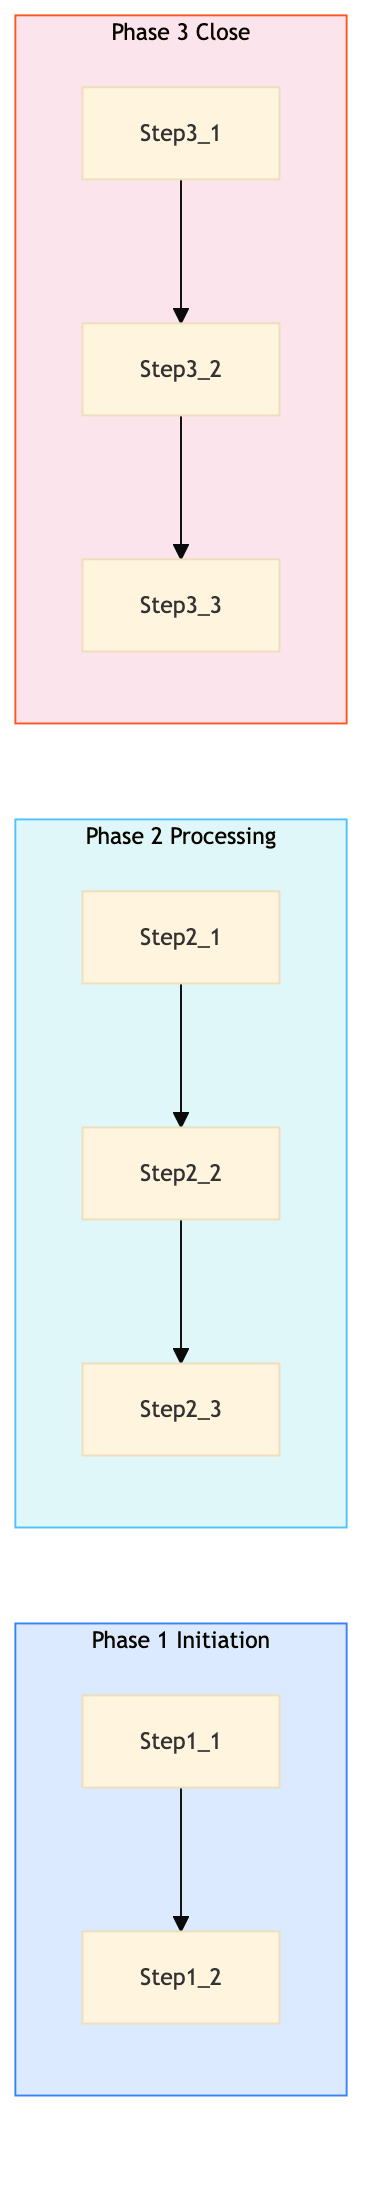
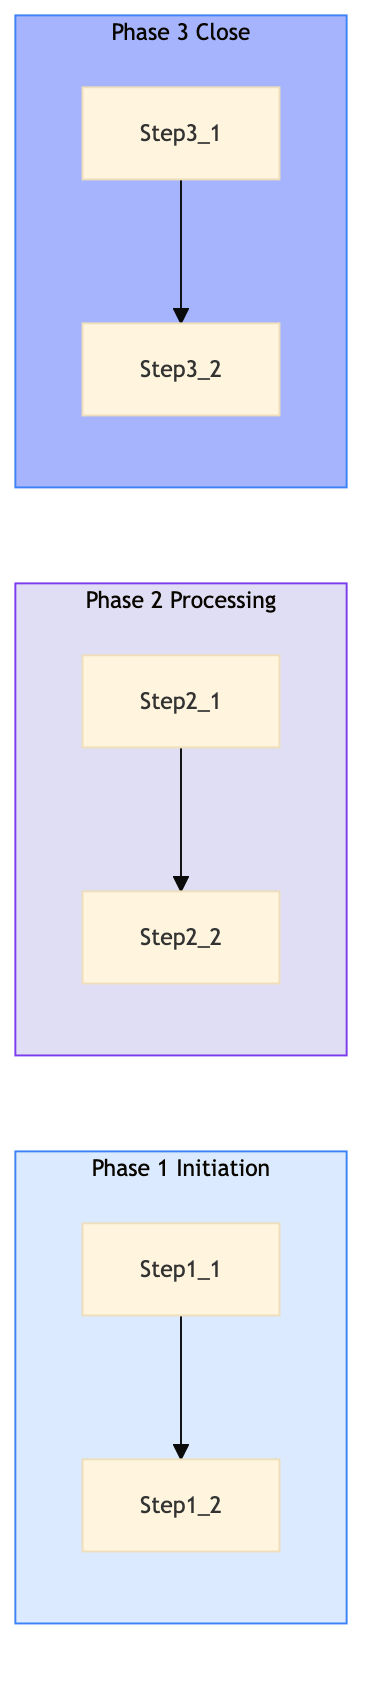
feat: add AAA-IN-BI-08 — Statutory Reserve and Premium Tax Calculation

diff --git a/aaa-insurance/insurance-billing/aaa-in-bi-08.html b/aaa-insurance/insurance-billing/aaa-in-bi-08.html
@@ -23,40 +23,16 @@
     <div class="nav-l2-group">
       <a class="nav-l2-title" href="../../shared-membership/membership-enrolment/index.html">Membership Enrolment & Sales</a>
       <div class="nav-l3-list">
-        <a class="nav-l3" href="../../shared-membership/membership-enrolment/shared-mb-en-01.html">SHARED-MB-EN-01 &mdash; New Member Walk-In Enrolment (Branch)</a>
-        <a class="nav-l3" href="../../shared-membership/membership-enrolment/shared-mb-en-02.html">SHARED-MB-EN-02 &mdash; Online Membership Self-Enrolment (Web/Ap</a>
-        <a class="nav-l3" href="../../shared-membership/membership-enrolment/shared-mb-en-03.html">SHARED-MB-EN-03 &mdash; Phone Enrolment via Contact Centre</a>
-        <a class="nav-l3" href="../../shared-membership/membership-enrolment/shared-mb-en-04.html">SHARED-MB-EN-04 &mdash; Affiliate and Employer Group Enrolment</a>
-        <a class="nav-l3" href="../../shared-membership/membership-enrolment/shared-mb-en-05.html">SHARED-MB-EN-05 &mdash; Membership Tier Selection and Upsell</a>
-        <a class="nav-l3" href="../../shared-membership/membership-enrolment/shared-mb-en-06.html">SHARED-MB-EN-06 &mdash; Payment Processing and First-Year Billin</a>
-        <a class="nav-l3" href="../../shared-membership/membership-enrolment/shared-mb-en-07.html">SHARED-MB-EN-07 &mdash; Welcome Kit and Digital Card Issuance</a>
-        <a class="nav-l3" href="../../shared-membership/membership-enrolment/shared-mb-en-08.html">SHARED-MB-EN-08 &mdash; Duplicate Member Detection and Merge</a>
       </div>
     </div>
     <div class="nav-l2-group">
       <a class="nav-l2-title" href="../../shared-membership/membership-renewal/index.html">Membership Renewal & Retention</a>
       <div class="nav-l3-list">
-        <a class="nav-l3" href="../../shared-membership/membership-renewal/shared-mb-rn-01.html">SHARED-MB-RN-01 &mdash; Annual Renewal Notice Generation and Dis</a>
-        <a class="nav-l3" href="../../shared-membership/membership-renewal/shared-mb-rn-02.html">SHARED-MB-RN-02 &mdash; Auto-Renewal Processing (Credit Card on </a>
-        <a class="nav-l3" href="../../shared-membership/membership-renewal/shared-mb-rn-03.html">SHARED-MB-RN-03 &mdash; Lapsed Member Reinstatement Campaign</a>
-        <a class="nav-l3" href="../../shared-membership/membership-renewal/shared-mb-rn-04.html">SHARED-MB-RN-04 &mdash; Membership Upgrade and Tier Change Proce</a>
-        <a class="nav-l3" href="../../shared-membership/membership-renewal/shared-mb-rn-05.html">SHARED-MB-RN-05 &mdash; Associate and Household Member Add-On Pr</a>
-        <a class="nav-l3" href="../../shared-membership/membership-renewal/shared-mb-rn-06.html">SHARED-MB-RN-06 &mdash; Cancellation Request Handling and Save O</a>
-        <a class="nav-l3" href="../../shared-membership/membership-renewal/shared-mb-rn-07.html">SHARED-MB-RN-07 &mdash; Renewal Rate Review and Pricing Update</a>
-        <a class="nav-l3" href="../../shared-membership/membership-renewal/shared-mb-rn-08.html">SHARED-MB-RN-08 &mdash; Membership Winback Campaign (12-36 Month</a>
       </div>
     </div>
     <div class="nav-l2-group">
       <a class="nav-l2-title" href="../../shared-membership/member-services/index.html">Member Services & Benefits</a>
       <div class="nav-l3-list">
-        <a class="nav-l3" href="../../shared-membership/member-services/shared-mb-sv-01.html">SHARED-MB-SV-01 &mdash; Member Discount Partner Redemption</a>
-        <a class="nav-l3" href="../../shared-membership/member-services/shared-mb-sv-02.html">SHARED-MB-SV-02 &mdash; Passport Photo Service Delivery (Branch)</a>
-        <a class="nav-l3" href="../../shared-membership/member-services/shared-mb-sv-03.html">SHARED-MB-SV-03 &mdash; International Driving Permit (IDP) Proce</a>
-        <a class="nav-l3" href="../../shared-membership/member-services/shared-mb-sv-04.html">SHARED-MB-SV-04 &mdash; Notary and Document Authentication Servi</a>
-        <a class="nav-l3" href="../../shared-membership/member-services/shared-mb-sv-05.html">SHARED-MB-SV-05 &mdash; Member Portal Profile and Preferences Ma</a>
-        <a class="nav-l3" href="../../shared-membership/member-services/shared-mb-sv-06.html">SHARED-MB-SV-06 &mdash; Lost and Stolen Membership Card Replacem</a>
-        <a class="nav-l3" href="../../shared-membership/member-services/shared-mb-sv-07.html">SHARED-MB-SV-07 &mdash; Member Data Privacy Request (CCPA and PI</a>
-        <a class="nav-l3" href="../../shared-membership/member-services/shared-mb-sv-08.html">SHARED-MB-SV-08 &mdash; Member Satisfaction Survey and NPS Track</a>
       </div>
     </div>
   </div>
@@ -303,7 +279,7 @@
           <span class="pid-badge org-badge-aaa">AAA</span>
           AAA-IN-BI-08 &mdash; Statutory Reserve and Premium Tax Calculation
         </h1>
-        <p>The process for calculating statutory reserve and premium tax for AAA Northeast involves gathering policy data, applying state regulations, and generating reports for compliance.</p>
+        <p>This process calculates statutory reserves and premium taxes for AAA Northeast members using state DOI regulations, Guidewire Cloud, Sabre GDS, Verisk ISO rating, Salesforce, and USD currency.</p>
       </div>
 
       <!-- BPMN Diagram -->
@@ -329,10 +305,10 @@
             <tr><th>L1 Domain</th><td>AAA Insurance</td></tr>
             <tr><th>L2 Process</th><td>Billing & Premium Management</td></tr>
             <tr><th>L3 Name</th><td>Statutory Reserve and Premium Tax Calculation</td></tr>
-            <tr><th>Trigger</th><td>Monthly billing cycle or changes in policy terms</td></tr>
-            <tr><th>Outcome</th><td>Accurate calculation of statutory reserves and premium taxes, ensuring compliance with state laws and timely reporting to regulatory bodies.</td></tr>
-            <tr><th>Org Notes</th><td>AAA Northeast operates under specific state DOI regulations, which differ from CAA's federal guidelines. This process requires detailed understanding of each state's insurance laws.</td></tr>
-            <tr><th>Systems</th><td><span class="sys-tag guidewire">Guidewire PolicyCenter/ClaimCenter/BillingCenter (Cloud)</span> <span class="sys-tag sap">SAP S/4HANA</span> <span class="sys-tag salesforce">Salesforce</span> <span class="sys-tag verisk">Verisk ISO rating</span></td></tr>
+            <tr><th>Trigger</th><td>Monthly policy renewal or claim processing</td></tr>
+            <tr><th>Outcome</th><td>Accurate calculation of statutory reserves and premium taxes, ensuring compliance with state regulations and timely billing to members.</td></tr>
+            <tr><th>Org Notes</th><td>AAA Northeast focuses on direct member interactions through licensed insurance agents, while CAA may have more centralized operations.</td></tr>
+            <tr><th>Systems</th><td><span class="sys-tag guidewire">Guidewire PolicyCenter</span> <span class="sys-tag guidewire">Guidewire BillingCenter</span> <span class="sys-tag verisk">Verisk ISO rating</span> <span class="sys-tag salesforce">Salesforce</span></td></tr>
           </table>
         </div>
       </div>
@@ -353,97 +329,73 @@
               <tbody>
         <tr>
           <td class="step-num">1.1</td>
-          <td>Data Extraction</td>
-          <td>Billing Analyst</td>
-          <td><span class="sys-tag guidewire">Guidewire PolicyCenter/ClaimCenter/BillingCenter (Cloud)</span></td>
-          <td>Policy data, claim information</td>
-          <td>Extracted policy and claim data</td>
+          <td>Policy Data Extraction</td>
+          <td>Data Analyst</td>
+          <td><span class="sys-tag guidewire">Guidewire PolicyCenter</span></td>
+          <td>Policy data from Guidewire PolicyCenter</td>
+          <td>Extracted policy details and coverage information</td>
           <td>Data extraction accuracy rate > 98%</td>
-          <td>Inconsistent data quality from different sources</td>
+          <td>Inaccurate policy data leading to incorrect calculations</td>
           <td>N</td>
           <td><span class="exception-y">Y</span></td>
         </tr>
         <tr>
           <td class="step-num">1.2</td>
-          <td>Regulation Application</td>
-          <td>Compliance Officer</td>
-          <td><span class="sys-tag salesforce">Verisk ISO rating, Salesforce (Einstein AI)</span></td>
-          <td>Extracted policy and claim data, state regulations</td>
-          <td>Calculated statutory reserves and premium taxes</td>
-          <td>Regulatory compliance rate > 95%</td>
-          <td>Complexity of varying state insurance laws</td>
+          <td>Premium Calculation</td>
+          <td>Billing Specialist</td>
+          <td><span class="sys-tag guidewire">Guidewire BillingCenter</span></td>
+          <td>Extracted policy details and coverage information</td>
+          <td>Calculated premiums with tax adjustments</td>
+          <td>Premium calculation accuracy rate > 95%</td>
+          <td>Manual overrides for complex policies</td>
           <td>N</td>
           <td><span class="exception-y">Y</span></td>
         </tr>
         <tr>
           <td class="step-num">2.1</td>
-          <td>Report Generation</td>
-          <td>Reporting Analyst</td>
-          <td><span class="sys-tag salesforce">SAP S/4HANA, Salesforce</span></td>
-          <td>Calculated statutory reserves and premium taxes</td>
-          <td>Compliance reports</td>
-          <td>Report generation time < 5 working days</td>
-          <td>Timely report delivery to regulatory bodies</td>
+          <td>Reserve Calculation</td>
+          <td>Actuary</td>
+          <td><span class="sys-tag verisk">Verisk ISO rating</span></td>
+          <td>Calculated premiums and coverage information</td>
+          <td>Statutory reserve amounts</td>
+          <td>Reserve calculation accuracy rate > 90%</td>
+          <td>Updating reserve models with new data</td>
           <td>N</td>
           <td><span class="exception-y">Y</span></td>
         </tr>
         <tr>
           <td class="step-num">2.2</td>
-          <td>Review and Approval</td>
-          <td>Senior Compliance Officer</td>
-          <td><span class="sys-tag salesforce">Salesforce, SAP S/4HANA</span></td>
-          <td>Compliance reports</td>
-          <td>Approved compliance reports</td>
-          <td>Approval time < 3 working days</td>
-          <td>Delays in review process</td>
-          <td><span class="decision-y">Y</span></td>
-          <td>N</td>
-        </tr>
-        <tr>
-          <td class="step-num">2.3</td>
-          <td>Submission to State DOI</td>
-          <td>Compliance Officer</td>
-          <td><span class="sys-tag salesforce">SAP S/4HANA, Salesforce</span></td>
-          <td>Approved compliance reports</td>
-          <td>Submitted reports</td>
-          <td>Submission accuracy rate > 98%</td>
-          <td>Errors in submission process</td>
+          <td>Tax Calculation</td>
+          <td>Taxes Specialist</td>
+          <td><span class="sys-tag salesforce">Salesforce</span></td>
+          <td>Calculated premiums and reserve amounts</td>
+          <td>Premium tax calculations</td>
+          <td>Tax calculation accuracy rate > 98%</td>
+          <td>Handling state-specific tax laws</td>
           <td>N</td>
           <td><span class="exception-y">Y</span></td>
         </tr>
         <tr>
           <td class="step-num">3.1</td>
-          <td>Audit and Review</td>
-          <td>Internal Auditor</td>
-          <td><span class="sys-tag salesforce">SAP S/4HANA, Salesforce</span></td>
-          <td>Submitted reports</td>
-          <td>Audit findings</td>
-          <td>Audit completion time < 7 working days</td>
-          <td>Resource constraints for audits</td>
-          <td><span class="decision-y">Y</span></td>
-          <td>N</td>
-        </tr>
-        <tr>
-          <td class="step-num">3.2</td>
-          <td>Remediation and Reporting</td>
-          <td>Compliance Officer</td>
-          <td><span class="sys-tag salesforce">SAP S/4HANA, Salesforce</span></td>
-          <td>Audit findings</td>
-          <td>Remediated reports</td>
-          <td>Remediation time < 10 working days</td>
-          <td>Complex remediation processes</td>
+          <td>Billing Generation</td>
+          <td>Billing Specialist</td>
+          <td><span class="sys-tag guidewire">Guidewire BillingCenter</span></td>
+          <td>Calculated premiums, reserve amounts, and tax calculations</td>
+          <td>Generated billing statements</td>
+          <td>Billing statement generation time < 48 hours</td>
+          <td>Delays in generating billing statements</td>
           <td>N</td>
           <td><span class="exception-y">Y</span></td>
         </tr>
         <tr>
-          <td class="step-num">3.3</td>
-          <td>Final Submission</td>
-          <td>Compliance Officer</td>
-          <td><span class="sys-tag salesforce">SAP S/4HANA, Salesforce</span></td>
-          <td>Remediated reports</td>
-          <td>Final submitted reports</td>
-          <td>Final submission accuracy rate > 98%</td>
-          <td>Errors in final submission</td>
+          <td class="step-num">3.2</td>
+          <td>Member Notification</td>
+          <td>Customer Service Representative</td>
+          <td><span class="sys-tag salesforce">Salesforce Einstein AI</span></td>
+          <td>Generated billing statements</td>
+          <td>Notified members via email or phone</td>
+          <td>Notification response time < 24 hours</td>
+          <td>Handling member inquiries about billing discrepancies</td>
           <td>N</td>
           <td><span class="exception-y">Y</span></td>
         </tr>
@@ -458,9 +410,9 @@
         <div class="card-header">&#x1F4CA; KPIs &amp; Risk Register</div>
         <div class="card-body">
           <p class="mb-8"><strong>KPIs</strong></p>
-          <div class="kpi-list mb-8"><span class="kpi-pill">Data extraction accuracy rate > 98%</span> <span class="kpi-pill">Regulatory compliance rate > 95%</span> <span class="kpi-pill">Report generation time < 5 working days</span> <span class="kpi-pill">Approval time < 3 working days</span> <span class="kpi-pill">Submission accuracy rate > 98%</span> <span class="kpi-pill">Audit completion time < 7 working days</span> <span class="kpi-pill">Remediation time < 10 working days</span> <span class="kpi-pill">Final submission accuracy rate > 98%</span></div>
+          <div class="kpi-list mb-8"><span class="kpi-pill">Data extraction accuracy rate > 98%</span> <span class="kpi-pill">Premium calculation accuracy rate > 95%</span> <span class="kpi-pill">Reserve calculation accuracy rate > 90%</span> <span class="kpi-pill">Tax calculation accuracy rate > 98%</span> <span class="kpi-pill">Billing statement generation time < 48 hours</span> <span class="kpi-pill">Notification response time < 24 hours</span></div>
           <p class="mb-8" style="margin-top:16px"><strong>Key Risks</strong></p>
-          <div class="kpi-list"><span class="risk-pill">Inconsistent data quality from different sources</span> <span class="risk-pill">Complexity of varying state insurance laws</span> <span class="risk-pill">Timely report delivery to regulatory bodies</span> <span class="risk-pill">Delays in review process</span> <span class="risk-pill">Errors in submission process</span> <span class="risk-pill">Resource constraints for audits</span> <span class="risk-pill">Complex remediation processes</span> <span class="risk-pill">Errors in final submission</span></div>
+          <div class="kpi-list"><span class="risk-pill">Inaccurate policy data leading to incorrect calculations</span> <span class="risk-pill">Manual overrides for complex policies</span> <span class="risk-pill">Updating reserve models with new data</span> <span class="risk-pill">Handling state-specific tax laws</span> <span class="risk-pill">Delays in generating billing statements</span> <span class="risk-pill">Handling member inquiries about billing discrepancies</span></div>
         </div>
       </div>
 

diff --git a/aaa-insurance/insurance-billing/index.html b/aaa-insurance/insurance-billing/index.html
@@ -75,6 +75,7 @@
         <a class="nav-l3" href="../../aaa-insurance/insurance-billing/aaa-in-bi-04.html">AAA-IN-BI-04 &mdash; NSF and Failed Payment Handling and Noti</a>
         <a class="nav-l3" href="../../aaa-insurance/insurance-billing/aaa-in-bi-05.html">AAA-IN-BI-05 &mdash; Agent Commission Calculation and Stateme</a>
         <a class="nav-l3" href="../../aaa-insurance/insurance-billing/aaa-in-bi-06.html">AAA-IN-BI-06 &mdash; Refund Processing (Cancellation and Over</a>
+        <a class="nav-l3" href="../../aaa-insurance/insurance-billing/aaa-in-bi-07.html">AAA-IN-BI-07 &mdash; Premium Audit (Commercial Lines)</a>
       </div>
     </div>
     <div class="nav-l2-group">
@@ -271,7 +272,7 @@
           <a href="../index.html">AAA Insurance</a>
         </div>
         <h1>🛡 Billing & Premium Management</h1>
-        <p>6 of 8 processes complete</p>
+        <p>7 of 8 processes complete</p>
       </div>
       <div class="card">
         <div class="card-header">Process List</div>
@@ -284,7 +285,7 @@
 <tr><td><a href="aaa-in-bi-04.html">AAA-IN-BI-04</a></td><td>NSF and Failed Payment Handling and Notice</td><td><span style="color:#16a34a;font-weight:700">&#x2705; Complete</span></td></tr>
 <tr><td><a href="aaa-in-bi-05.html">AAA-IN-BI-05</a></td><td>Agent Commission Calculation and Statement</td><td><span style="color:#16a34a;font-weight:700">&#x2705; Complete</span></td></tr>
 <tr><td><a href="aaa-in-bi-06.html">AAA-IN-BI-06</a></td><td>Refund Processing (Cancellation and Overpayment)</td><td><span style="color:#16a34a;font-weight:700">&#x2705; Complete</span></td></tr>
-<tr><td>AAA-IN-BI-07</td><td>Premium Audit (Commercial Lines)</td><td><span style="color:#94a3b8">&#x23F3; Queued</span></td></tr>
+<tr><td><a href="aaa-in-bi-07.html">AAA-IN-BI-07</a></td><td>Premium Audit (Commercial Lines)</td><td><span style="color:#16a34a;font-weight:700">&#x2705; Complete</span></td></tr>
 <tr><td>AAA-IN-BI-08</td><td>Statutory Reserve and Premium Tax Calculation</td><td><span style="color:#94a3b8">&#x23F3; Queued</span></td></tr>
 </tbody>
           </table>

diff --git a/index.html b/index.html
@@ -75,6 +75,7 @@
         <a class="nav-l3" href="aaa-insurance/insurance-billing/aaa-in-bi-04.html">AAA-IN-BI-04 &mdash; NSF and Failed Payment Handling and Noti</a>
         <a class="nav-l3" href="aaa-insurance/insurance-billing/aaa-in-bi-05.html">AAA-IN-BI-05 &mdash; Agent Commission Calculation and Stateme</a>
         <a class="nav-l3" href="aaa-insurance/insurance-billing/aaa-in-bi-06.html">AAA-IN-BI-06 &mdash; Refund Processing (Cancellation and Over</a>
+        <a class="nav-l3" href="aaa-insurance/insurance-billing/aaa-in-bi-07.html">AAA-IN-BI-07 &mdash; Premium Audit (Commercial Lines)</a>
       </div>
     </div>
     <div class="nav-l2-group">
@@ -271,9 +272,9 @@
       </div>
 
       <div class="stats-bar">
-        <div class="stat-card"><div class="stat-num">24</div><div class="stat-label">Processes Complete</div></div>
+        <div class="stat-card"><div class="stat-num">25</div><div class="stat-label">Processes Complete</div></div>
         <div class="stat-card"><div class="stat-num">268</div><div class="stat-label">Total Processes</div></div>
-        <div class="stat-card"><div class="stat-num">24</div><div class="stat-label">AAA Complete</div></div>
+        <div class="stat-card"><div class="stat-num">25</div><div class="stat-label">AAA Complete</div></div>
         <div class="stat-card"><div class="stat-num caa-red">0</div><div class="stat-label">CAA Complete</div></div>
         <div class="stat-card"><div class="stat-num">0</div><div class="stat-label">Shared Complete</div></div>
       </div>
@@ -293,7 +294,7 @@
         <span class="nav-org-dot aaa" style="display:inline-block;margin-right:4px"></span>
         AAA
       </p>
-      <p class="card-count">24 / 34 processes complete</p>
+      <p class="card-count">25 / 34 processes complete</p>
     </div>
     <div class="domain-card org-caa">
       <h3><a href="caa-insurance/index.html">🍁 CAA Insurance (Ontario)</a></h3>

diff --git a/aaa-insurance/index.html b/aaa-insurance/index.html
@@ -75,6 +75,7 @@
         <a class="nav-l3" href="../aaa-insurance/insurance-billing/aaa-in-bi-04.html">AAA-IN-BI-04 &mdash; NSF and Failed Payment Handling and Noti</a>
         <a class="nav-l3" href="../aaa-insurance/insurance-billing/aaa-in-bi-05.html">AAA-IN-BI-05 &mdash; Agent Commission Calculation and Stateme</a>
         <a class="nav-l3" href="../aaa-insurance/insurance-billing/aaa-in-bi-06.html">AAA-IN-BI-06 &mdash; Refund Processing (Cancellation and Over</a>
+        <a class="nav-l3" href="../aaa-insurance/insurance-billing/aaa-in-bi-07.html">AAA-IN-BI-07 &mdash; Premium Audit (Commercial Lines)</a>
       </div>
     </div>
     <div class="nav-l2-group">
@@ -268,7 +269,7 @@
       <div class="page-header">
         <div class="breadcrumb"><a href="../index.html">Home</a></div>
         <h1>🛡 AAA Insurance</h1>
-        <p>24 of 34 processes complete across 4 process groups</p>
+        <p>25 of 34 processes complete across 4 process groups</p>
       </div>
       <div class="domain-grid">    <div class="domain-card org-aaa">
       <h3><a href="insurance-quoting/index.html">Quoting & Underwriting</a></h3>
@@ -280,7 +281,7 @@
     </div>
     <div class="domain-card org-aaa">
       <h3><a href="insurance-billing/index.html">Billing & Premium Management</a></h3>
-      <p class="card-meta">6/8 processes complete</p>
+      <p class="card-meta">7/8 processes complete</p>
     </div>
     <div class="domain-card org-aaa">
       <h3><a href="agency-operations/index.html">Insurance Agency Operations</a></h3>
